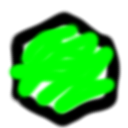
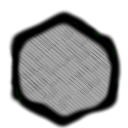
added owner of tiles, some more refactoring

diff --git a/core/src/net/matthiasauer/abocr/map/unit/range/RangeSystem.java b/core/src/net/matthiasauer/abocr/map/unit/range/RangeSystem.java
@@ -6,7 +6,6 @@ import java.util.HashSet;
 import java.util.LinkedList;
 import java.util.Set;
 
-import com.badlogic.ashley.core.ComponentMapper;
 import com.badlogic.ashley.core.Engine;
 import com.badlogic.ashley.core.Entity;
 import com.badlogic.ashley.core.Family;
@@ -20,6 +19,7 @@ import net.matthiasauer.abocr.map.tile.TileFastAccessSystem;
 import net.matthiasauer.abocr.map.unit.UnitComponent;
 import net.matthiasauer.abocr.map.unit.UnitFastAccessSystem;
 import net.matthiasauer.abocr.map.unit.interaction.select.UnitSelectionMovementOrigin;
+import net.matthiasauer.abocr.utils.Mappers;
 
 public class RangeSystem extends IteratingSystem {
 	@SuppressWarnings("unchecked")
@@ -30,22 +30,12 @@ public class RangeSystem extends IteratingSystem {
 	private static final Family targetTileFamily =
 			Family.all(TargetComponent.class).get();
 	private ImmutableArray<Entity> targetTileEntities;
-	private final ComponentMapper<MapElementOwnerComponent> mapElementOwnerComponentMapper;
-	private final ComponentMapper<UnitComponent> unitComponentMapper;
-	private final ComponentMapper<TargetComponent> targetComponentMapper;
 	private TileFastAccessSystem tileFastAccessSystem;
 	private UnitFastAccessSystem unitFastAccessSystem;
 	private PooledEngine pooledEngine;
 	
 	public RangeSystem() {
 		super(selectedUnits);
-		
-		this.unitComponentMapper =
-				ComponentMapper.getFor(UnitComponent.class);
-		this.mapElementOwnerComponentMapper =
-				ComponentMapper.getFor(MapElementOwnerComponent.class);
-		this.targetComponentMapper =
-				ComponentMapper.getFor(TargetComponent.class);
 	}
 	
 	@Override
@@ -73,7 +63,7 @@ public class RangeSystem extends IteratingSystem {
 	@Override
 	protected void processEntity(final Entity center, float deltaTime) {
 		UnitComponent unitComponent =
-				this.unitComponentMapper.get(center);
+				Mappers.unitComponent.get(center);
 		Entity centerTile =
 				this.tileFastAccessSystem.getTile(unitComponent.x, unitComponent.y);
 		
@@ -95,7 +85,7 @@ public class RangeSystem extends IteratingSystem {
 		TileComponent tileComponent =
 				this.tileFastAccessSystem.getTileComponent(tileEntity);
 		TargetComponent centerTargetComponent =
-				this.targetComponentMapper.get(tileEntity);
+				Mappers.targetComponent.get(tileEntity);
 		
 		if (centerTargetComponent != null) {
 			if (centerTargetComponent.type != TargetType.Move) {
@@ -164,9 +154,9 @@ public class RangeSystem extends IteratingSystem {
 	private boolean sameOwner(Entity locationA, Entity locationB) {
 		// unit on the tile
 		MapElementOwnerComponent locationAOwner =
-				this.mapElementOwnerComponentMapper.get(locationA);
+				Mappers.mapElementOwnerComponent.get(locationA);
 		MapElementOwnerComponent locationBOwner =
-				this.mapElementOwnerComponentMapper.get(locationB);
+				Mappers.mapElementOwnerComponent.get(locationB);
 		
 		if (locationAOwner.owner != locationBOwner.owner) {
 			return false;

diff --git a/core/src/net/matthiasauer/abocr/map/unit/interaction/select/UnitSelectionMovementSystem.java b/core/src/net/matthiasauer/abocr/map/unit/interaction/select/UnitSelectionMovementSystem.java
@@ -1,6 +1,5 @@
 package net.matthiasauer.abocr.map.unit.interaction.select;
 
-import com.badlogic.ashley.core.ComponentMapper;
 import com.badlogic.ashley.core.Engine;
 import com.badlogic.ashley.core.Entity;
 import com.badlogic.ashley.core.Family;
@@ -14,6 +13,7 @@ import net.matthiasauer.abocr.map.unit.UnitComponent;
 import net.matthiasauer.abocr.map.unit.UnitFastAccessSystem;
 import net.matthiasauer.abocr.map.unit.UnitStrength;
 import net.matthiasauer.abocr.map.unit.range.TargetComponent;
+import net.matthiasauer.abocr.utils.Mappers;
 
 public class UnitSelectionMovementSystem extends IteratingSystem {
 	@SuppressWarnings("unchecked")
@@ -32,20 +32,10 @@ public class UnitSelectionMovementSystem extends IteratingSystem {
 	
 	private PooledEngine pooledEngine;
 	private ImmutableArray<Entity> clickedTilesEntities;
-	private final ComponentMapper<TargetComponent> targetComponentMapper;
-	private final ComponentMapper<UnitComponent> unitComponentMapper;
-	private final ComponentMapper<TileComponent> tileComponentMapper;
 	private UnitFastAccessSystem unitFastAccessSystem;
 	
 	public UnitSelectionMovementSystem() {
 		super(selectedEntitiesFamily);
-		
-		this.targetComponentMapper =
-				ComponentMapper.getFor(TargetComponent.class);
-		this.unitComponentMapper =
-				ComponentMapper.getFor(UnitComponent.class);
-		this.tileComponentMapper =
-				ComponentMapper.getFor(TileComponent.class);
 	}
 	
 	@Override
@@ -69,11 +59,11 @@ public class UnitSelectionMovementSystem extends IteratingSystem {
 			Entity defenderTileEntity = this.clickedTilesEntities.first();
 			
 			TargetComponent targetComponent =
-					this.targetComponentMapper.get(defenderTileEntity);
+					Mappers.targetComponent.get(defenderTileEntity);
 			TileComponent defenderTileComponent =
-					this.tileComponentMapper.get(defenderTileEntity);
+					Mappers.tileComponent.get(defenderTileEntity);
 			UnitComponent attackerUnitComponent =
-					this.unitComponentMapper.get(attackerUnitEntity);			
+					Mappers.unitComponent.get(attackerUnitEntity);			
 			
 			switch (targetComponent.type) {
 			case Attack:
@@ -101,9 +91,9 @@ public class UnitSelectionMovementSystem extends IteratingSystem {
 	
 	private boolean performAttack(Entity attacker, Entity defender) {
 		UnitComponent attackerUnitComponent =
-				this.unitComponentMapper.get(attacker);
+				Mappers.unitComponent.get(attacker);
 		UnitComponent defenderUnitComponent =
-				this.unitComponentMapper.get(defender);
+				Mappers.unitComponent.get(defender);
 		int attackerUnitCount =
 				attackerUnitComponent.strength.count;
 		int defenderUnitCount =

diff --git a/core/src/net/matthiasauer/abocr/map/tile/TileOwnerRenderSystem.java b/core/src/net/matthiasauer/abocr/map/tile/TileOwnerRenderSystem.java
@@ -1,0 +1,78 @@
+package net.matthiasauer.abocr.map.tile;
+
+import com.badlogic.ashley.core.Engine;
+import com.badlogic.ashley.core.Entity;
+import com.badlogic.ashley.core.Family;
+import com.badlogic.ashley.core.PooledEngine;
+import com.badlogic.ashley.systems.IteratingSystem;
+import com.badlogic.ashley.utils.ImmutableArray;
+import com.badlogic.gdx.graphics.g2d.TextureAtlas.AtlasRegion;
+
+import net.matthiasauer.abocr.graphics.RenderComponent;
+import net.matthiasauer.abocr.graphics.RenderLayer;
+import net.matthiasauer.abocr.graphics.RenderPositionUnit;
+import net.matthiasauer.abocr.graphics.texture.TextureLoader;
+import net.matthiasauer.abocr.map.owner.MapElementOwnerComponent;
+import net.matthiasauer.abocr.utils.Mappers;
+
+public class TileOwnerRenderSystem extends IteratingSystem {
+	@SuppressWarnings("unchecked")
+	private static final Family tileFamily =
+			Family.all(TileComponent.class).get();
+	@SuppressWarnings("unchecked")
+	private static final Family tileOwnerFamily =
+			Family.all(TileOwnerComponent.class).get();
+	private final AtlasRegion tileOwner;
+	private ImmutableArray<Entity> tileOwnerEntities;
+	private PooledEngine engine;
+	
+	public TileOwnerRenderSystem() {
+		super(tileFamily);
+		
+		this.tileOwner = TextureLoader.getInstance().getTexture("tile_owner");
+	}
+
+	@Override
+	public void addedToEngine(Engine engine) {
+		super.addedToEngine(engine);
+		
+		this.engine = (PooledEngine) engine;
+		
+		this.tileOwnerEntities =
+				this.engine.getEntitiesFor(tileOwnerFamily);
+	}
+
+	@Override
+	public void update(float deltaTime) {
+		super.update(deltaTime);
+
+		// remove all the tile owners
+		for (Entity entity : this.tileOwnerEntities) {
+			this.engine.removeEntity(entity);
+		}
+	}
+	
+	@Override
+	protected void processEntity(Entity entity, float deltaTime) {
+		TileComponent tileComponent =
+				Mappers.tileComponent.get(entity);
+		MapElementOwnerComponent mapElementOwner =
+				Mappers.mapElementOwnerComponent.get(entity);
+		RenderComponent renderComponent =
+				this.engine.createComponent(RenderComponent.class).set(
+						tileComponent.x,
+						tileComponent.y,
+						0,
+						RenderPositionUnit.Tiles,
+						this.tileOwner,
+						RenderLayer.TileOwner,
+						mapElementOwner.owner.color);
+		Entity tileOwnerEntity = this.engine.createEntity();
+		
+		tileOwnerEntity.add(
+				this.engine.createComponent(TileOwnerComponent.class));
+		tileOwnerEntity.add(renderComponent);
+		
+		this.engine.addEntity(tileOwnerEntity);
+	}
+}

diff --git a/core/src/net/matthiasauer/abocr/map/unit/interaction/select/UnitSelectionMovementTargetRenderSystem.java b/core/src/net/matthiasauer/abocr/map/unit/interaction/select/UnitSelectionMovementTargetRenderSystem.java
@@ -3,7 +3,6 @@ package net.matthiasauer.abocr.map.unit.interaction.select;
 import java.util.ArrayList;
 import java.util.List;
 
-import com.badlogic.ashley.core.ComponentMapper;
 import com.badlogic.ashley.core.Engine;
 import com.badlogic.ashley.core.Entity;
 import com.badlogic.ashley.core.Family;
@@ -18,6 +17,7 @@ import net.matthiasauer.abocr.graphics.texture.TextureContainer;
 import net.matthiasauer.abocr.map.tile.TileComponent;
 import net.matthiasauer.abocr.map.unit.range.TargetComponent;
 import net.matthiasauer.abocr.map.unit.range.TargetType;
+import net.matthiasauer.abocr.utils.Mappers;
 
 public class UnitSelectionMovementTargetRenderSystem extends IteratingSystem { 
 	@SuppressWarnings("unchecked")
@@ -25,8 +25,6 @@ public class UnitSelectionMovementTargetRenderSystem extends IteratingSystem {
 			Family.all(
 					TileComponent.class,
 					TargetComponent.class).get();
-	private final ComponentMapper<TileComponent> tileComponentMapper;
-	private final ComponentMapper<TargetComponent> targetComponentMapper;
 	private final TextureContainer<TargetType> textureContainer;
 	private List<Entity> selectedEntities;
 	private PooledEngine engine;
@@ -39,10 +37,6 @@ public class UnitSelectionMovementTargetRenderSystem extends IteratingSystem {
 		this.textureContainer.add(TargetType.Attack, "attackTarget");
 		this.textureContainer.add(TargetType.Move, "moveTarget");
 		this.textureContainer.add(TargetType.NoMove, "noTarget");
-		this.tileComponentMapper =
-				ComponentMapper.getFor(TileComponent.class);
-		this.targetComponentMapper =
-				ComponentMapper.getFor(TargetComponent.class);
 		this.selectedEntities =
 				new ArrayList<Entity>();
 	}
@@ -69,11 +63,11 @@ public class UnitSelectionMovementTargetRenderSystem extends IteratingSystem {
 	@Override
 	protected void processEntity(Entity entity, float deltaTime) {
 		TileComponent tileComponent =
-				this.tileComponentMapper.get(entity);
+				Mappers.tileComponent.get(entity);
 		Entity renderTargetEntity =
 				this.engine.createEntity();
 		TargetComponent targetComponent =
-				this.targetComponentMapper.get(entity);
+				Mappers.targetComponent.get(entity);
 		
 		Color tint = null;
 		

diff --git a/core/src/net/matthiasauer/abocr/map/unit/interaction/select/UnitSelectionMovementOriginRenderSystem.java b/core/src/net/matthiasauer/abocr/map/unit/interaction/select/UnitSelectionMovementOriginRenderSystem.java
@@ -3,7 +3,6 @@ package net.matthiasauer.abocr.map.unit.interaction.select;
 import java.util.ArrayList;
 import java.util.List;
 
-import com.badlogic.ashley.core.ComponentMapper;
 import com.badlogic.ashley.core.Engine;
 import com.badlogic.ashley.core.Entity;
 import com.badlogic.ashley.core.Family;
@@ -16,6 +15,7 @@ import net.matthiasauer.abocr.graphics.RenderLayer;
 import net.matthiasauer.abocr.graphics.RenderPositionUnit;
 import net.matthiasauer.abocr.graphics.texture.TextureLoader;
 import net.matthiasauer.abocr.map.unit.UnitComponent;
+import net.matthiasauer.abocr.utils.Mappers;
 
 public class UnitSelectionMovementOriginRenderSystem extends IteratingSystem { 
 	@SuppressWarnings("unchecked")
@@ -23,7 +23,6 @@ public class UnitSelectionMovementOriginRenderSystem extends IteratingSystem {
 			Family.all(
 					UnitComponent.class,
 					UnitSelectionMovementOrigin.class).get();
-	private final ComponentMapper<UnitComponent> unitComponentMapper;
 	private final AtlasRegion texture;
 	private List<Entity> selectedEntities;
 	private PooledEngine engine;
@@ -33,8 +32,6 @@ public class UnitSelectionMovementOriginRenderSystem extends IteratingSystem {
 		
 		this.texture =
 				TextureLoader.getInstance().getTexture("selection");
-		this.unitComponentMapper =
-				ComponentMapper.getFor(UnitComponent.class);
 		this.selectedEntities =
 				new ArrayList<Entity>();
 	}
@@ -61,7 +58,7 @@ public class UnitSelectionMovementOriginRenderSystem extends IteratingSystem {
 	@Override
 	protected void processEntity(Entity entity, float deltaTime) {
 		UnitComponent unitComponent =
-				this.unitComponentMapper.get(entity);
+				Mappers.unitComponent.get(entity);
 		Entity renderEntity =
 				this.engine.createEntity();
 

diff --git a/core/src/net/matthiasauer/abocr/map/MapView.java b/core/src/net/matthiasauer/abocr/map/MapView.java
@@ -33,6 +33,7 @@ import net.matthiasauer.abocr.map.supply.CityRenderSystem;
 import net.matthiasauer.abocr.map.supply.CityType;
 import net.matthiasauer.abocr.map.tile.TileComponent;
 import net.matthiasauer.abocr.map.tile.TileFastAccessSystem;
+import net.matthiasauer.abocr.map.tile.TileOwnerRenderSystem;
 import net.matthiasauer.abocr.map.tile.TileRenderSystem;
 import net.matthiasauer.abocr.map.tile.TileType;
 import net.matthiasauer.abocr.map.ui.NextTurnButtonSystem;
@@ -79,6 +80,7 @@ public class MapView extends ScreenAdapter {
 		
 		this.engine.addSystem(new RenderTextureArchiveSystem());
 
+		this.engine.addSystem(new TileOwnerRenderSystem());
 		this.engine.addSystem(new TileRenderSystem());
 		this.engine.addSystem(new UnitRenderSystem());
 		this.engine.addSystem(new CityRenderSystem());
@@ -206,6 +208,7 @@ public class MapView extends ScreenAdapter {
 
 				tile.add(tileComponent);
 				tile.add(new ClickableComponent());
+				tile.add(new MapElementOwnerComponent().set(choice(Owner.values()), false));
 				
 				this.engine.addEntity(tile);
 			}

diff --git a/core/src/net/matthiasauer/abocr/utils/Mappers.java b/core/src/net/matthiasauer/abocr/utils/Mappers.java
@@ -8,6 +8,7 @@ import net.matthiasauer.abocr.map.owner.MapElementOwnerComponent;
 import net.matthiasauer.abocr.map.supply.CityComponent;
 import net.matthiasauer.abocr.map.tile.TileComponent;
 import net.matthiasauer.abocr.map.unit.UnitComponent;
+import net.matthiasauer.abocr.map.unit.range.TargetComponent;
 
 public class Mappers {
 	public static final ComponentMapper<UnitComponent> unitComponent = 
@@ -22,6 +23,8 @@ public class Mappers {
 			ComponentMapper.getFor(TileComponent.class);
 	public static final ComponentMapper<ClickedComponent> clickedComponent =
 			ComponentMapper.getFor(ClickedComponent.class);
+	public static final ComponentMapper<TargetComponent> targetComponent =
+			ComponentMapper.getFor(TargetComponent.class);
 	
 	private Mappers() {
 	}

diff --git a/core/src/net/matthiasauer/abocr/map/tile/TileOwnerComponent.java b/core/src/net/matthiasauer/abocr/map/tile/TileOwnerComponent.java
@@ -1,0 +1,10 @@
+package net.matthiasauer.abocr.map.tile;
+
+import com.badlogic.ashley.core.Component;
+import com.badlogic.gdx.utils.Pool.Poolable;
+
+public class TileOwnerComponent implements Component, Poolable  {
+	@Override
+	public void reset() {
+	}
+}

diff --git a/core/src/net/matthiasauer/abocr/graphics/RenderLayer.java b/core/src/net/matthiasauer/abocr/graphics/RenderLayer.java
@@ -2,6 +2,7 @@ package net.matthiasauer.abocr.graphics;
 
 public enum RenderLayer {
 	Tiles(1, true),
+	TileOwner(25, true),
 	Cities(85, true),
 	UnitType(100, true),
 	UnitSelection(150, true),
